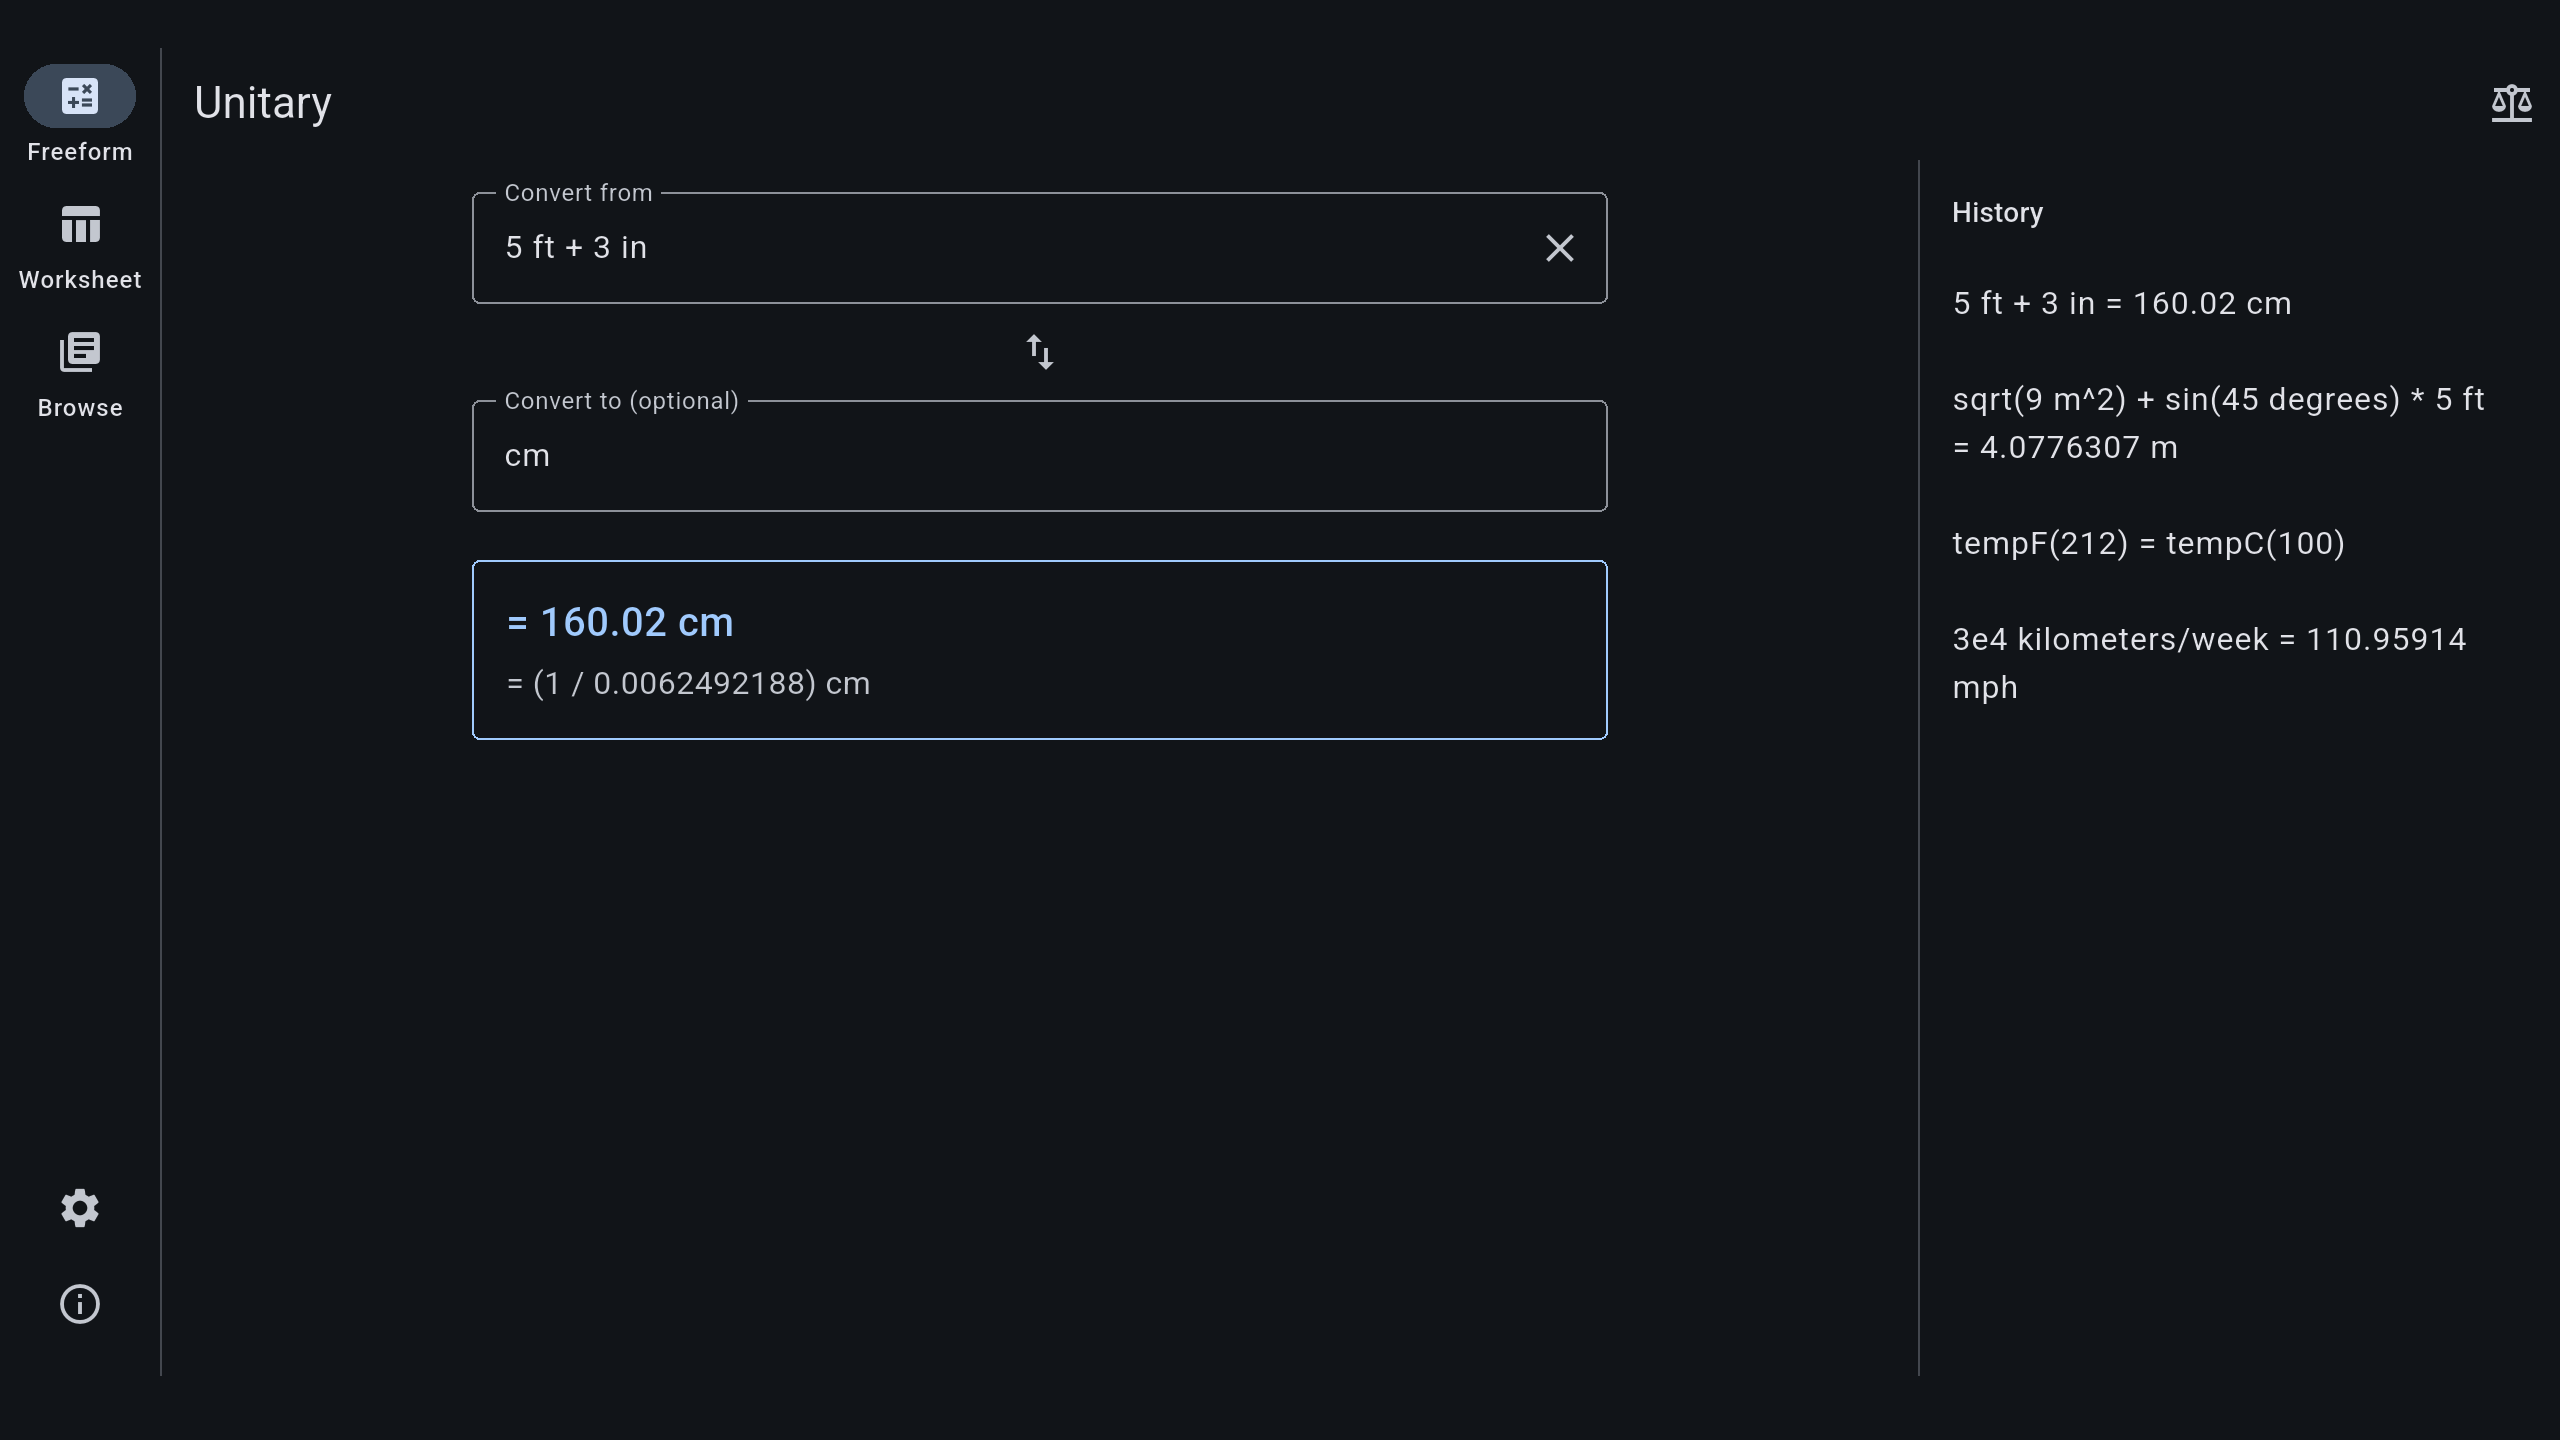
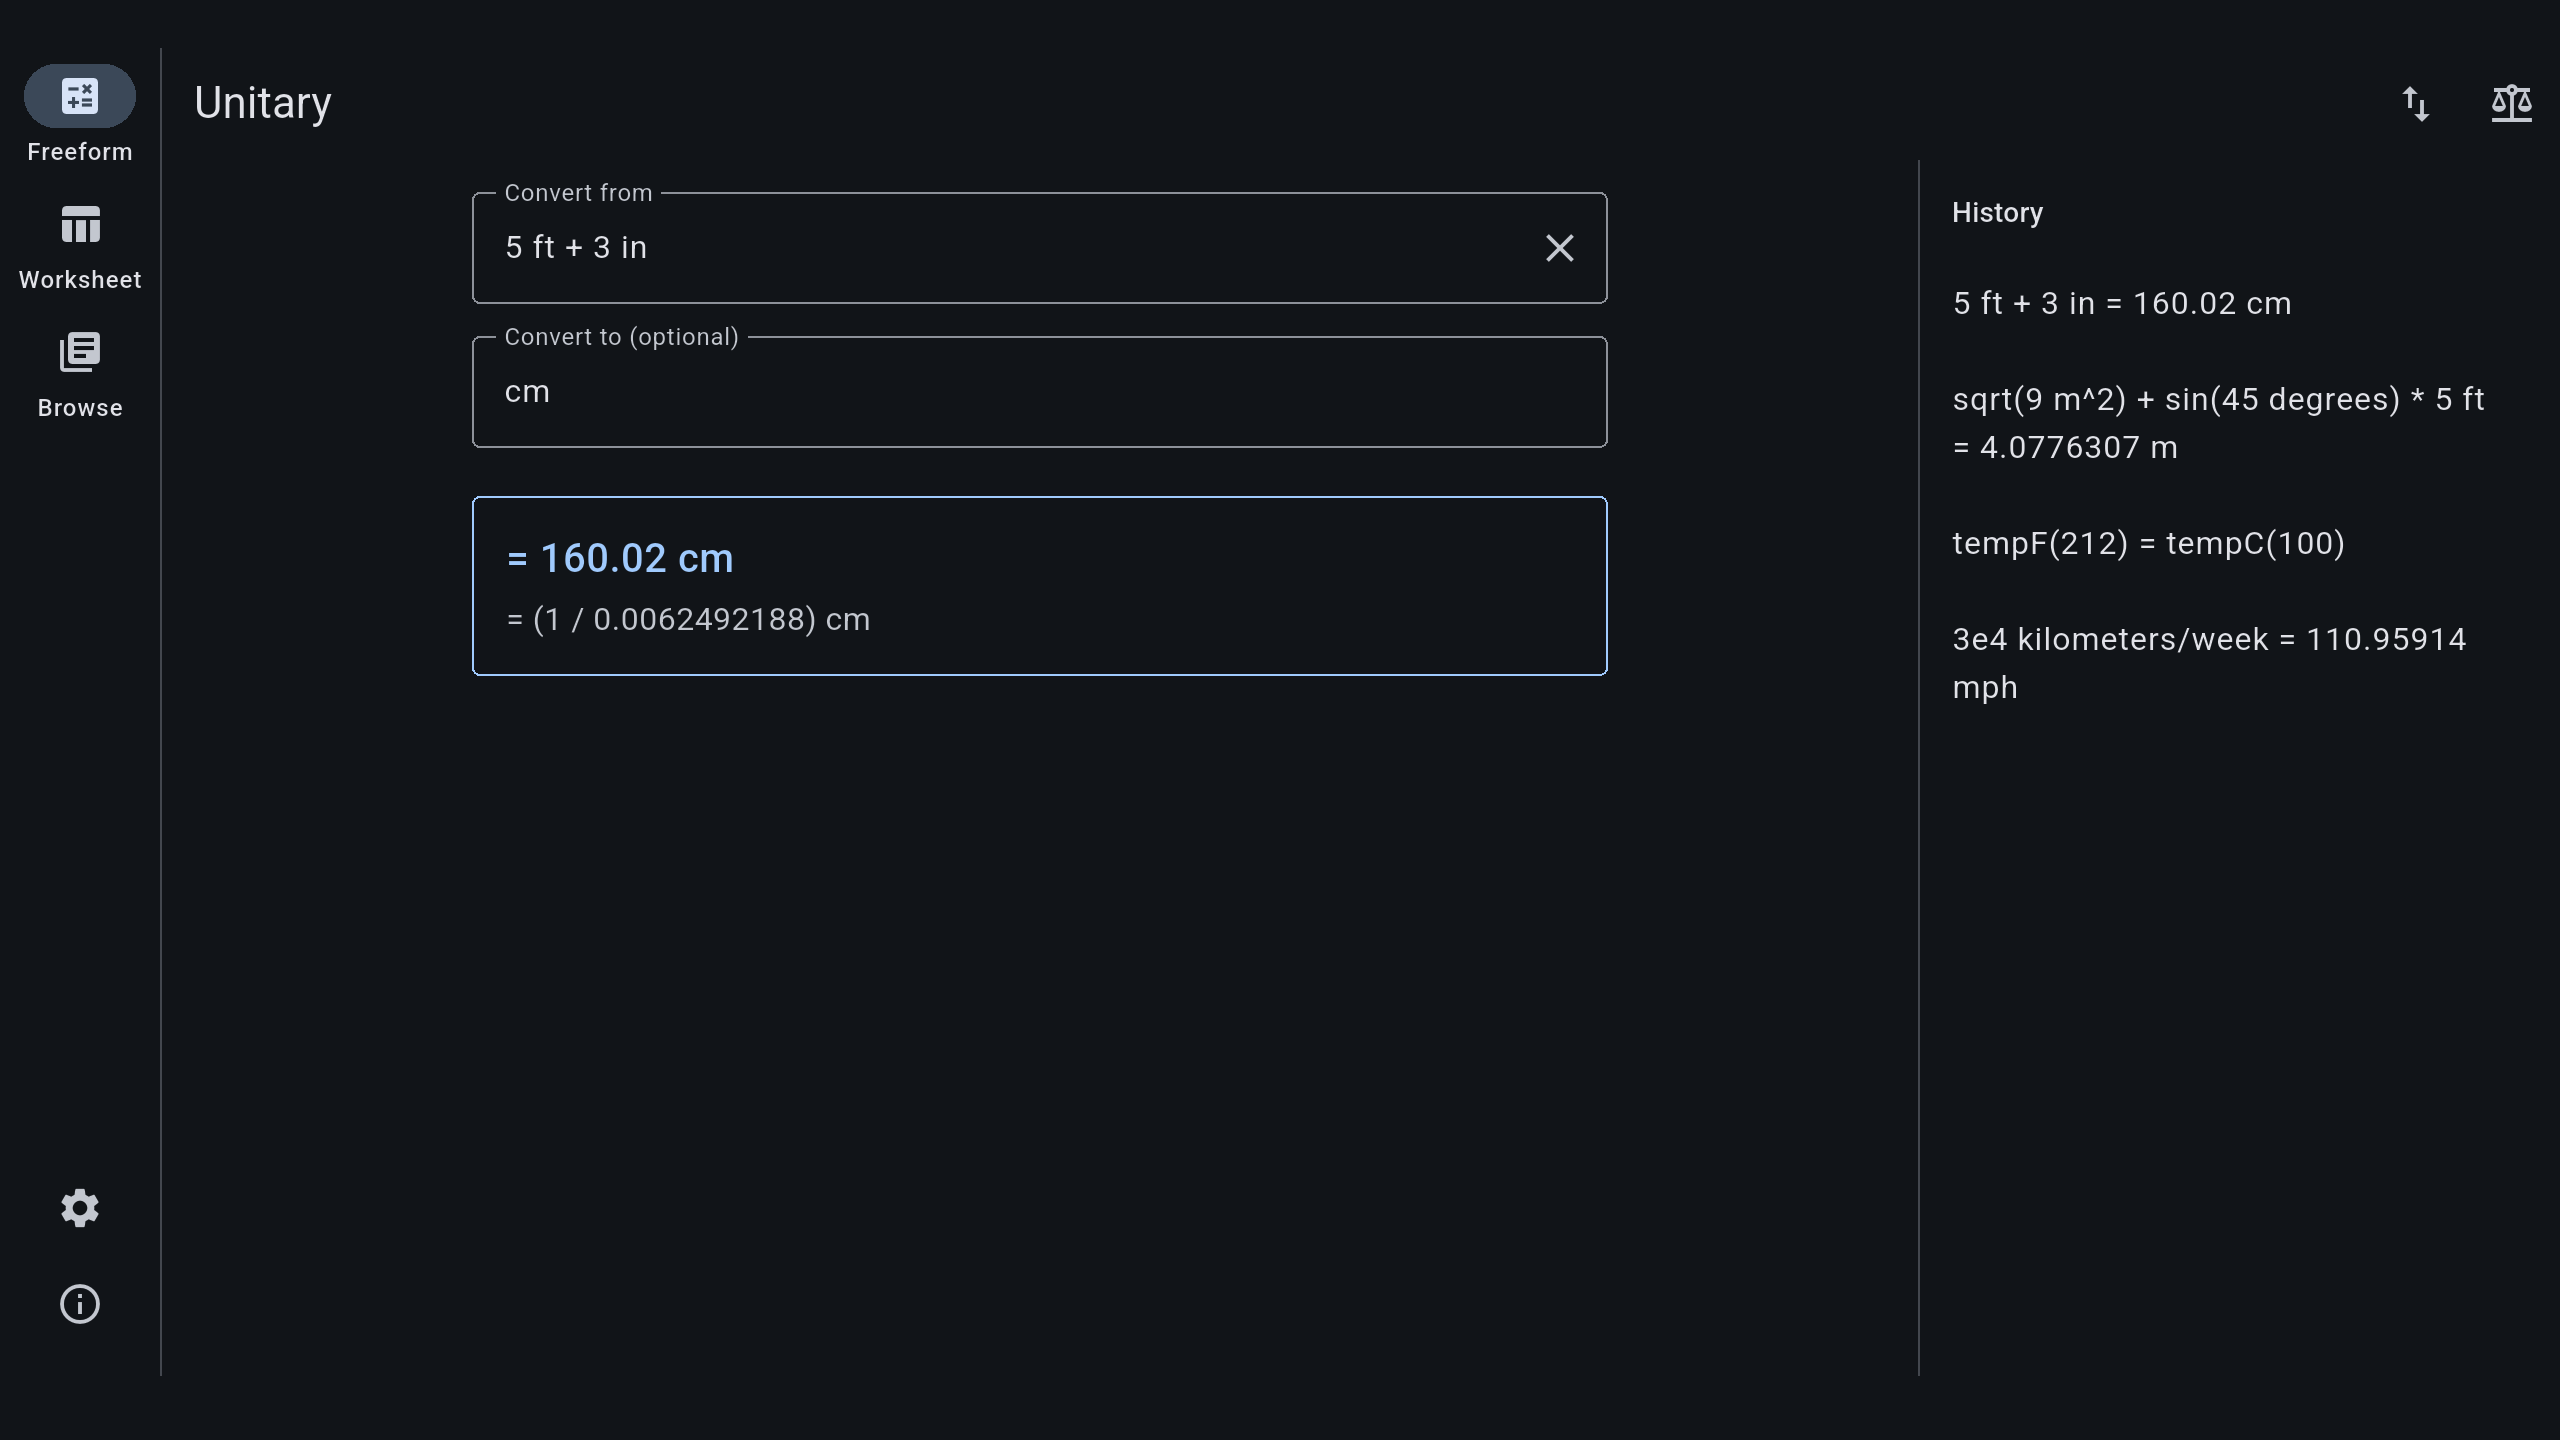
update screenshots

Changed region(s): [[0.1875, 0.375, 0.3438, 0.5], [0.2188, 0.2188, 0.2812, 0.25], [0.1875, 0.25, 0.2188, 0.2812]]

diff --git a/doc/design_progress.md b/doc/design_progress.md
@@ -665,4 +665,5 @@ Questions that arose during design but haven't been resolved:
   - The swap button moved from its own row between the fields into the app bar, as the first action, with the tooltip "Swap from and to".  The fields are now 16 dp apart, which returns 32 dp of height to the result and the area
   - Chips use standard Material 3 pairings (`onSurface` text, `outline` border), so the contrast spec needs no new entry, and the overlay's `outlineVariant` border exemption is removed
   - Not changed: which suggestions appear and their ranking.  The first line of chips is all a short screen shows, and alphabetical order puts `mebi-` and `mega-` ahead of `meter` for `me`; smarter ranking is a separate change.  Keyboard selection of suggestions on web is also still absent
-  - Remaining, by hand: on-device checks (phone with keyboard in both orientations, web tap handling, TalkBack) and regenerating the freeform screenshots for the README and the store listing, which still show the swap button between the fields
+  - The freeform screenshots for the README and the store listing were regenerated to show the swap button in the app bar
+  - Remaining, by hand: on-device checks (phone with keyboard in both orientations, web tap handling, TalkBack)

diff --git a/openspec/changes/completion-area/tasks.md b/openspec/changes/completion-area/tasks.md
@@ -39,7 +39,7 @@
 ## 7. Documentation
 
 - [x] 7.1 Update `doc/implementation_plan.md` and `doc/design_progress.md` with a dated entry for this change, and correct any present-tense description of the completion overlay in `doc/architecture.md` or other docs
-- [ ] 7.2 Regenerate the screenshots that show the freeform screen (`tool/take_screenshots.sh`) and update the README if it describes the dropdown or the swap button's position
+- [x] 7.2 Regenerate the screenshots that show the freeform screen (`tool/take_screenshots.sh`) and update the README if it describes the dropdown or the swap button's position
 
 ## 8. Verification
 
